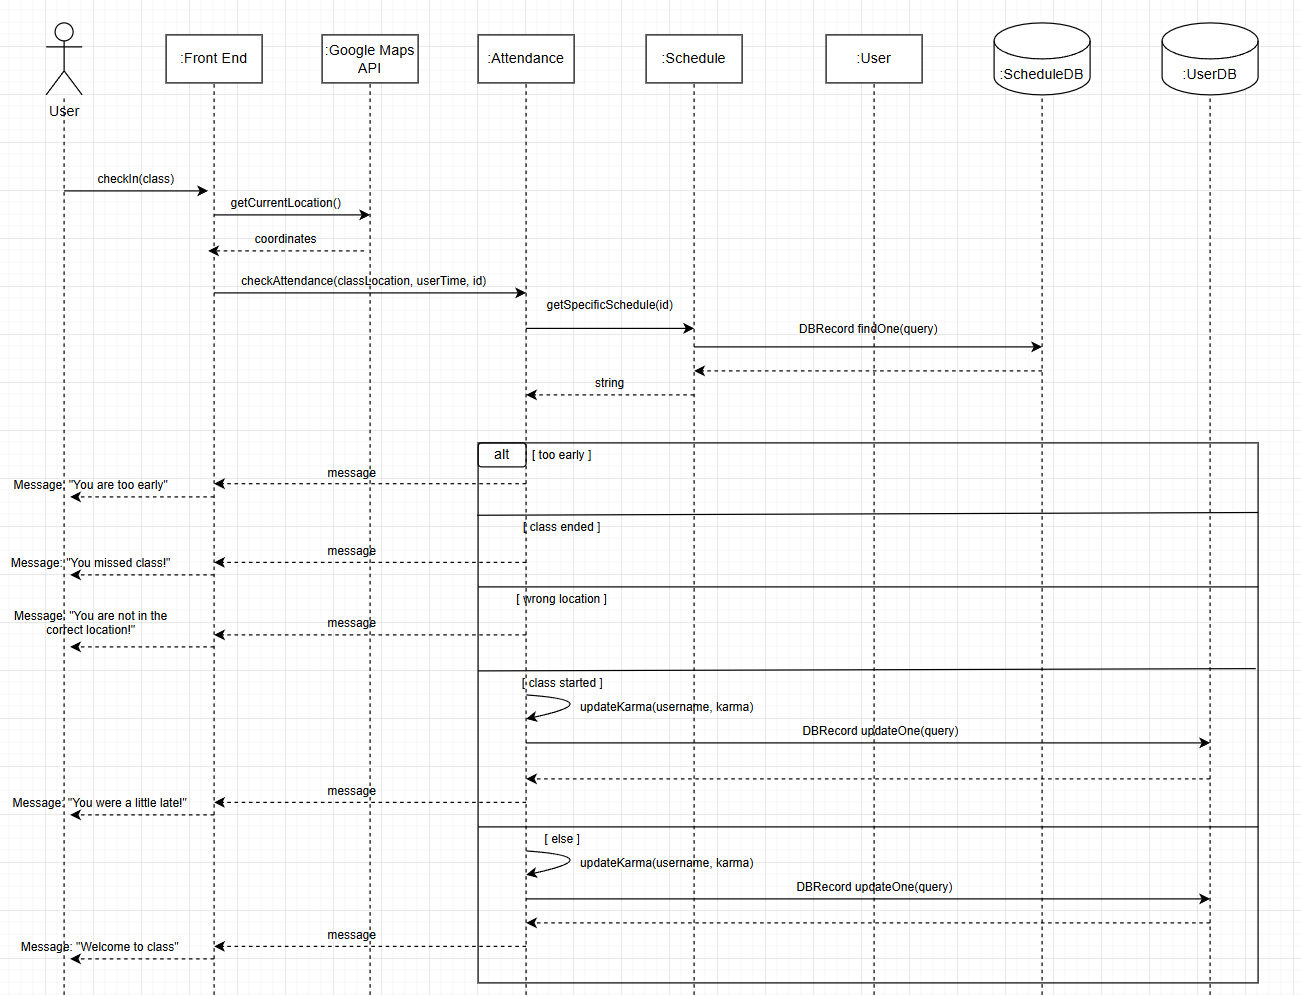
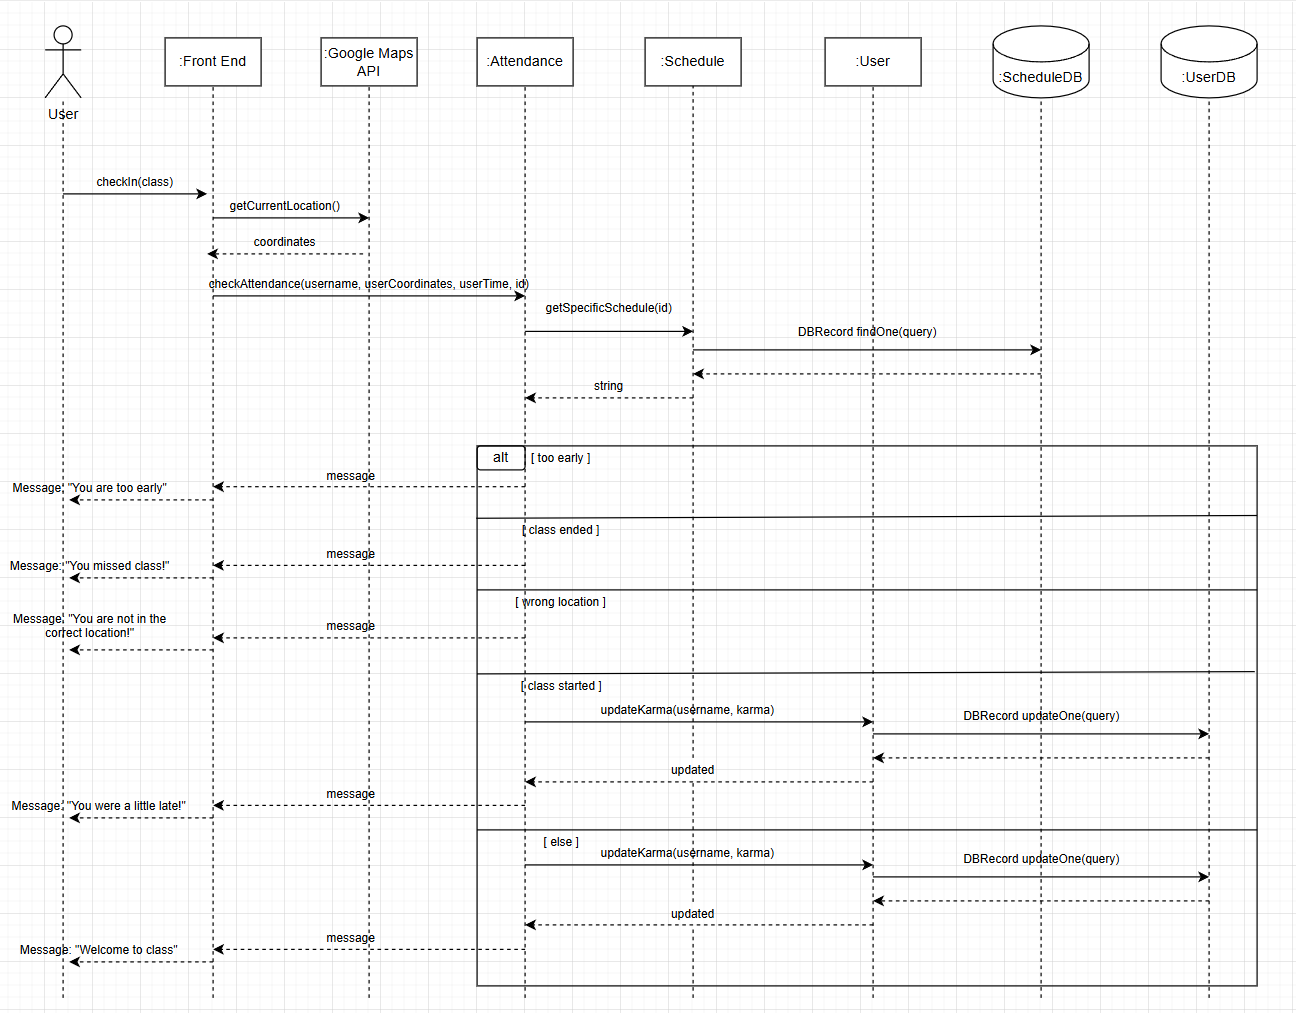
Update diagrams and update document

diff --git a/documentation/M3_Requirements_and_Design.md b/documentation/M3_Requirements_and_Design.md
@@ -131,8 +131,8 @@ Get2Class is a gamified calendar to help students get to class on time. The main
                 2. The app routes them to their profile page
             - **Failure scenario(s)**:
                 - N/A
-        2. **Update Notifications**<a name="fr4_2"></a>:
-            - **Description**: The user can change whether they want to turn on or off the notifications
+        2. **Update Settings**<a name="fr4_2"></a>:
+            - **Description**: The user can change their notification preferences
             - **Primary Actor(s)**: User
             - **Main success scenario**:
                 1. The user clicks on the notification settings
@@ -198,10 +198,8 @@ N/A
 2. **Attendance**
     - **Purpose**: Manages the attendance of a user and synchronizes communication between schedule data and Google Maps API data
     - **Interfaces**:
-        1. String checkAttendance(List\<double> classLocation, double userTime, String id)
+        1. String checkAttendance(String username, List\<double> userCooridnates, double userTime, String id)
             - **Purpose**: Checks if the user is in class based on the user current location, class location, and the current time of the class and user
-        2. void updateKarma(String username, int karma)
-            - **Purpose**: This increases or decreases the points (karma) of a user based on the location and time
 3. **User**
     - **Purpose**: Manages the user settings and provides communication to user database/collection which stores the username, points (karma), and settings of a particular user
     - **Interfaces**:
@@ -215,6 +213,8 @@ N/A
             - **Purpose**: Creates a new user entry into the database if a newly logged in user does not exist in the database
         5. String findExistingUser(String username)
             - **Purpose**: Checks if a logged in user exists in the database already
+        6. void updateKarma(String username, int karma)
+            - **Purpose**: This increases or decreases the points (karma) of a user based on the location and time
 4. **Additional Component (not back end related) For Reference: Front End**
     - **Purpose**: Manages front end interactions with all other back end components of the app
     - **Interfaces**:
